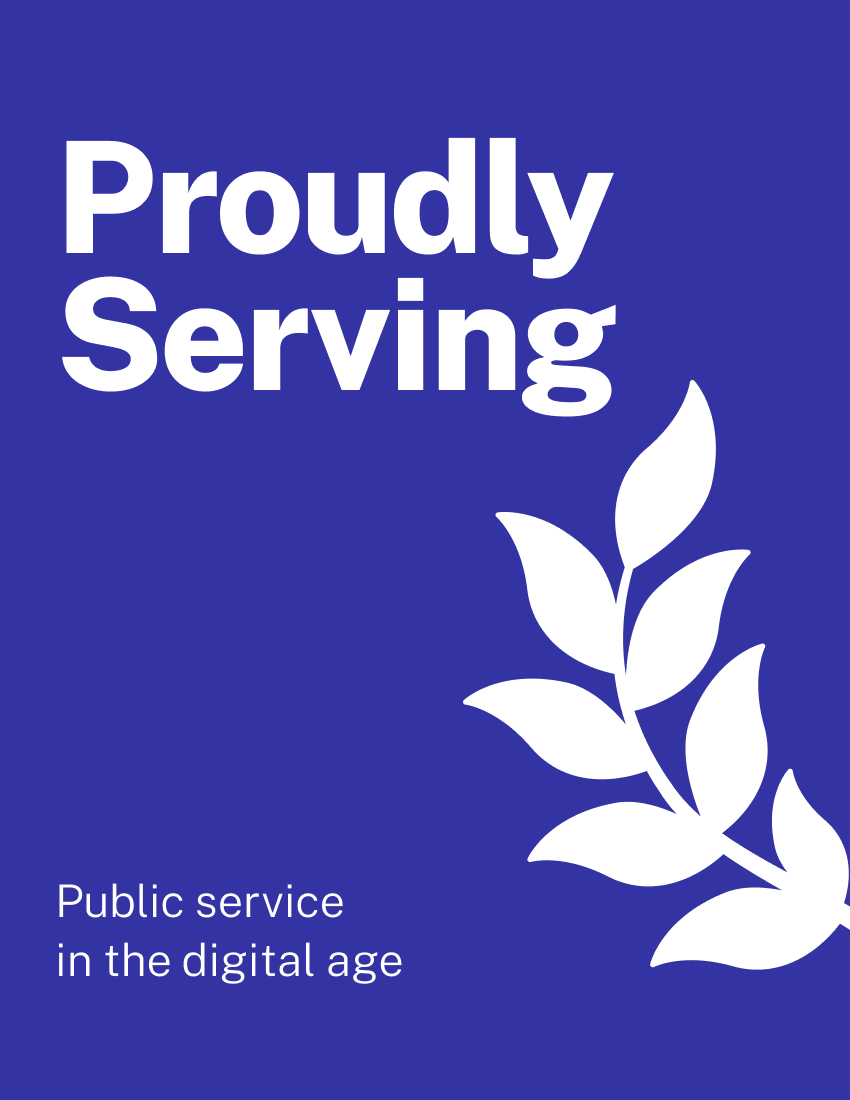
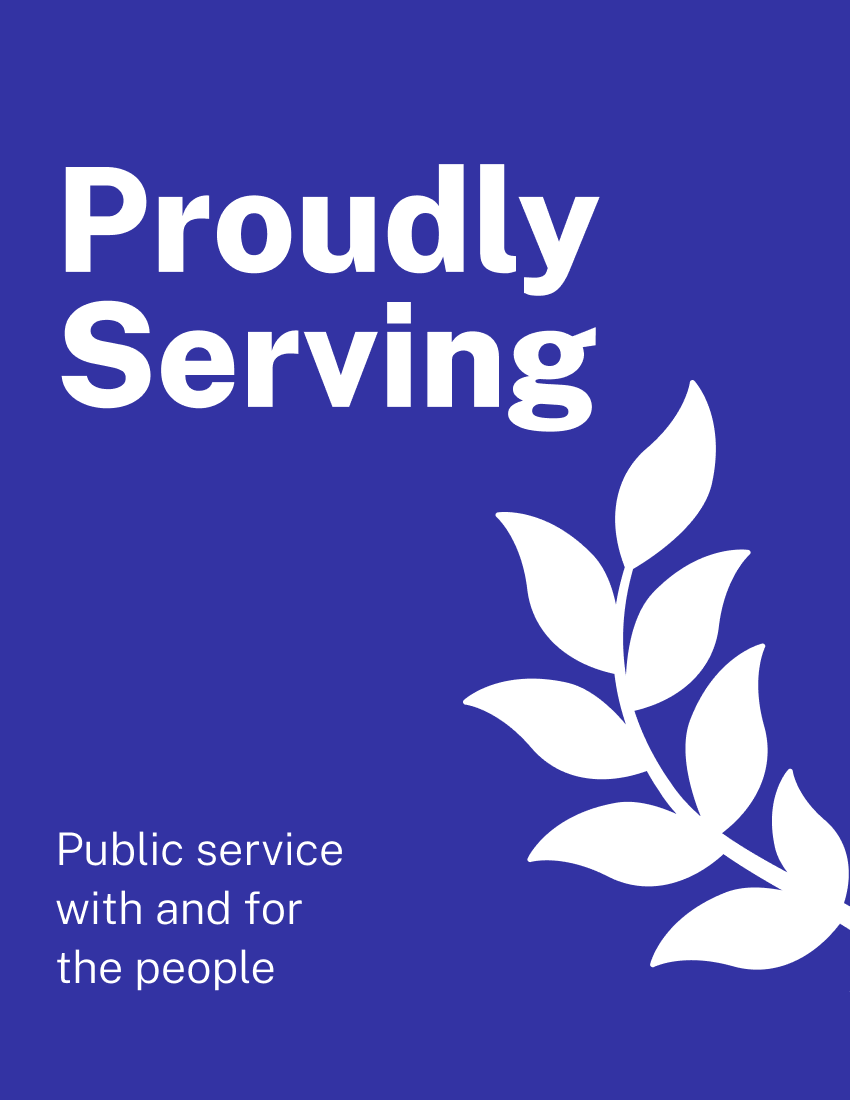
Merge pull request #417 from govfresh/update-books
Add SpecOps book, rename published to book-published, update book con…

Pull request: Add SpecOps book, rename published to book-published, update book con…
…tent

Changed region(s): [[0.0612, 0.1236, 0.7341, 0.4018], [0.0612, 0.7418, 0.4894, 0.8964]]

diff --git a/_includes/jumbotron.html b/_includes/jumbotron.html
@@ -195,7 +195,7 @@
           {% include image.html loading="eager" fetchpriority="high" %}
         </div>
         <div>
-          <ul class="list-unstyled mb-0 text-body-secondary small">
+          <ul class="list-unstyled text-body-secondary small">
             {% if page.book-author %}
               <li>By {{ page.book-author }}</li>
             {% endif %}
@@ -208,8 +208,8 @@
             {% if page.book-format %}
               <li>{{ page.book-format }}</li>
             {% endif %}
-            {% if page.published %}
-              <li>{{ page.published }}</li>
+            {% if page.book-published %}
+              <li>{{ page.book-published }}</li>
             {% endif %}
             {% if page.genre %}
               <li>{{ page.genre }}</li>
@@ -227,7 +227,7 @@
                 href="{{ page.bookshop }}"
                 variant="brand"
                 size="l"
-                class="mt-4 mb-2">
+                class="mb-2">
                 Buy
               </wa-button>
             </p>

diff --git a/css/style.css b/css/style.css
@@ -1594,6 +1594,11 @@ pre {
 .list-unstyled {
     list-style: none;
     padding-left: 0;
+    padding-inline-start: 0;
+}
+
+.list-unstyled li {
+    margin-inline-start: 0;
 }
 
 .list-inline {

diff --git a/_books/specops.md b/_books/specops.md
@@ -1,0 +1,49 @@
+---
+title: "SpecOps"
+description: "A New Approach to Modernizing Legacy Technology Systems"
+img-book: specops.jpg
+img-feat: specops.png
+#img-og: -og.png
+img-alt: "Cover of SpecOps: A New Approach to Modernizing Legacy Technology Systems"
+book-author: Mark Headd
+book-published: January 2026
+isbn: 979-8994454718 
+genre: 
+book-language: English
+book-format: Paperback
+number-of-pages: 321
+publisher: 
+publisher-url: 
+website: 
+library: 
+bookshop: 
+goodreads: 
+amazon: https://www.amazon.com/SpecOps-Method-Approach-Modernizing-Technology/dp/B0GFGTK6TG
+quote: 
+category:
+  - Artificial intelligence
+  - Policy
+  - Procurement
+author: 
+feature: yes
+---
+
+From the publisher:
+
+Some of the most critical systems in government run on software older than the people trying to maintain them.
+
+The systems processing unemployment claims, tax returns, and benefits eligibility were built decades ago in programming languages that universities no longer teach, by people who have long since retired. These systems work, after a fashion. But they are fragile, poorly understood, and increasingly dangerous to change. The people who know how they actually work are leaving, and their knowledge is leaving with them.
+
+This is not a new problem. What's new is the convergence of two forces: the accelerating retirement of the workforce that understands these systems, and the emergence of AI tools capable of analyzing legacy code at scale.
+
+The SpecOps Method introduces a different approach to legacy modernization, one that treats specifications rather than code as the source of truth. AI assists in extracting what legacy systems actually do. Domain experts verify that understanding is correct. Modern implementations are then generated from verified specifications. The result is modernization that preserves institutional knowledge rather than losing it.
+
+This book provides both a conceptual framework for thinking about legacy modernization differently and practical guidance for putting that framework into action. You will learn:
+
+- Why traditional modernization approaches consistently fail
+- How AI coding assistants change what's possible
+- The six phases of the SpecOps methodology
+- How to select a pilot project and build your team
+- How to work effectively with both AI tools and human experts
+
+Written for government technology leaders, digital service teams, and anyone responsible for systems that have outlived their creators, The SpecOps Method offers a path forward for the quiet crisis hiding in plain sight across government.

diff --git a/_books/_template.md b/_books/_template.md
@@ -1,14 +1,12 @@
 ---
 title: ""
 description: ""
-date: 
-modified: 
 img-book: .jpg
 img-feat: -feat.png
-img-og: -og.png
+#img-og: -og.png
 img-alt: ""
 book-author: 
-published: 
+book-published: 
 isbn: 
 genre: 
 book-language: 
@@ -17,10 +15,10 @@ number-of-pages:
 publisher: 
 publisher-url: 
 website: 
-library: https://www.worldcat.org/
-bookshop: https://bookshop.org/
-goodreads: https://www.goodreads.com/
-amazon: https://www.amazon.com
+#library: https://www.worldcat.org/
+#bookshop: https://bookshop.org/
+#goodreads: https://www.goodreads.com/
+#amazon: https://www.amazon.com
 quote: 
 category:
   - Accessibility
@@ -40,4 +38,3 @@ category:
 author: 
 feature: yes
 ---
-

diff --git a/_books/proudly-serving.md b/_books/proudly-serving.md
@@ -1,6 +1,6 @@
 ---
 title: "Proudly Serving"
-description: "Public service in the digital age"
+description: "Public service with and for the people"
 img-book: proudly-serving.png
 img-feat: proudly-serving.png
 img-alt: "Cover of 'Proudly Serving: Public service in the digital age'"
@@ -10,7 +10,7 @@ website: https://proudlyservingbook.com
 subscribe: https://proudlyserving.substack.com/
 patreon: 
 medium: 
-figma: https://www.figma.com/@proudlyserving
+figma: 
 youtube: 
 vimeo: 
 linkedin: https://www.linkedin.com/company/proudlyserving
@@ -23,6 +23,7 @@ library:
 bookshop: 
 goodreads: 
 amazon: 
+buy: https://proudlyservingbook.com/book/
 review-link: 
 category:
   - Design
@@ -31,4 +32,10 @@ author:
 feature: yes
 ---
 
-A playbook helping local governments build people-centered digital public services.
+From the publisher:
+
+> Proudly Serving is a guide to building people-centered public services.
+>
+> In a world where communities expect accessible, responsive, and equitable services, Proudly Serving offers a fresh, actionable guide for today’s government leaders, civic innovators, and anyone committed to serving the public good.
+>
+> Proudly Serving is a call to action built with and for the people who show up every day to make government work — from frontline staff to digital service teams, policy makers to civic entrepreneurs. Regardless of title or department, this book equips you with the mindsets, tools, and frameworks needed to design and deliver public services that truly serve people.

diff --git a/_books/autocracy-inc.md b/_books/autocracy-inc.md
@@ -6,7 +6,7 @@ img-feat: autocracy-inc-feat.png
 img-og: autocracy-inc-og.png
 img-alt: "Cover of Autocracy, Inc."
 book-author: Anne Applebaum
-published: July 2024
+book-published: July 2024
 isbn: 0385549938
 genre: 
 book-language: English

diff --git a/_books/citizens.md b/_books/citizens.md
@@ -5,7 +5,7 @@ img-book: citizens.jpg
 img-feat: citizens.jpg
 img-alt: "Cover of 'Citizens'"
 book-author: Jon Alexander, Ariane Conrad
-published: March 2022
+book-published: March 2022
 isbn: 9781912454846
 genre: 
 book-language: English

diff --git a/_books/hack-to-the-future.md b/_books/hack-to-the-future.md
@@ -8,7 +8,7 @@ img-feat: hack-to-the-future-feat.png
 img-og: hack-to-the-future-og.png
 img-alt: "Cover of Hack to the Future"
 book-author: Emily Crose
-published: October 2024
+book-published: October 2024
 isbn: 978-1-394-16983-2
 genre: 
 book-language: 

diff --git a/_books/hackers-mind.md b/_books/hackers-mind.md
@@ -6,7 +6,7 @@ img-feat: hackers-mind-feat.png
 img-og: hackers-mind-og.png
 img-alt: "Cover of A Hacker's Mind"
 book-author: Bruce Schneier
-published: February 2023
+book-published: February 2023
 isbn: 978-0-393-86666-7
 genre: 
 book-language: English

diff --git a/_books/read-write-own.md b/_books/read-write-own.md
@@ -6,7 +6,7 @@ img-feat: read-write-own.jpg
 img-og: read-write-own-og.png
 img-alt: "Read Write Own: Building the Next Era of the Internet"
 book-author: Chris Dixon
-published: January 2024
+book-published: January 2024
 isbn: 9780593731383
 genre: 
 book-language: English

diff --git a/_books/surveillance-valley.md b/_books/surveillance-valley.md
@@ -6,7 +6,7 @@ img-feat: surveillance-valley.jpg
 img-og: surveillance-valley.jpg
 img-alt: "Surveillance Valley cover"
 book-author: Yasha Levine
-published: 2018
+book-published: 2018
 isbn: 9781610398039
 genre: 
 book-language: English

diff --git a/_books/the-peoples-spaceship.md b/_books/the-peoples-spaceship.md
@@ -4,7 +4,7 @@ description: "NASA, the Shuttle Era, and Public Engagement after Apollo"
 img-book: the-peoples-spaceship.jpg
 img-feat: the-peoples-spaceship-feat.jpg
 book-author:  Amy Paige Kaminski
-published: May 2024
+book-published: May 2024
 isbn: 9780822947660
 genre: 
 book-language: English